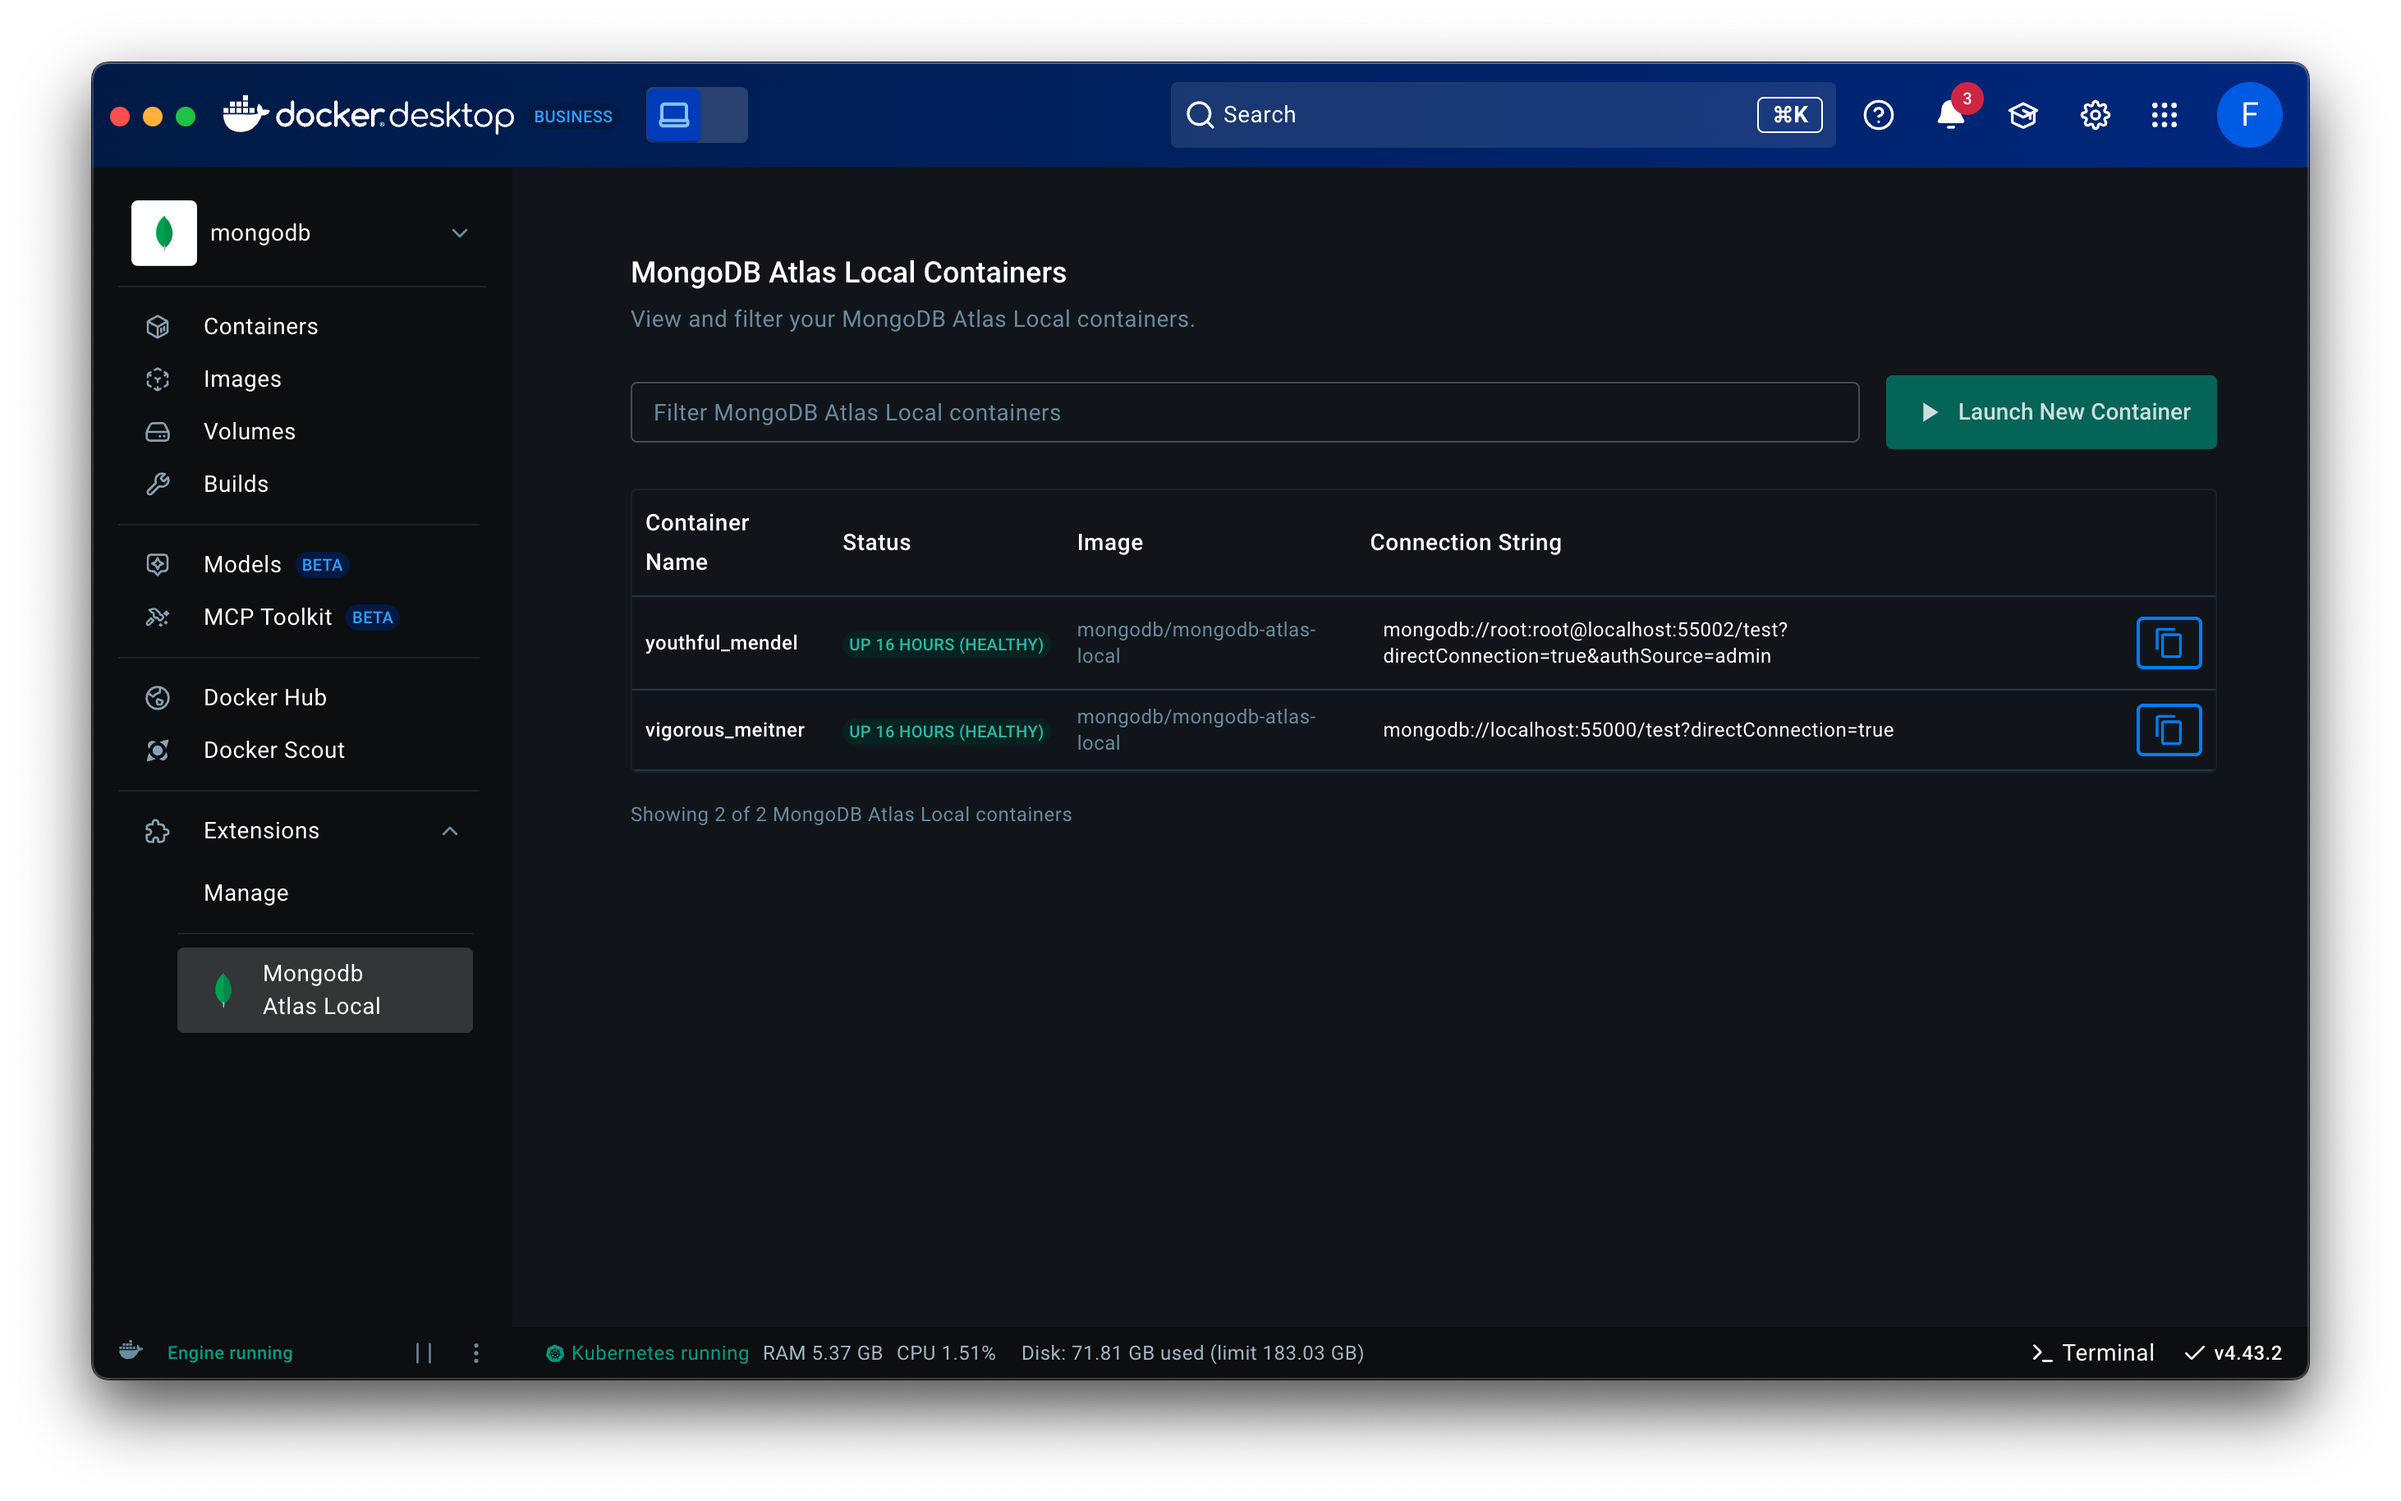
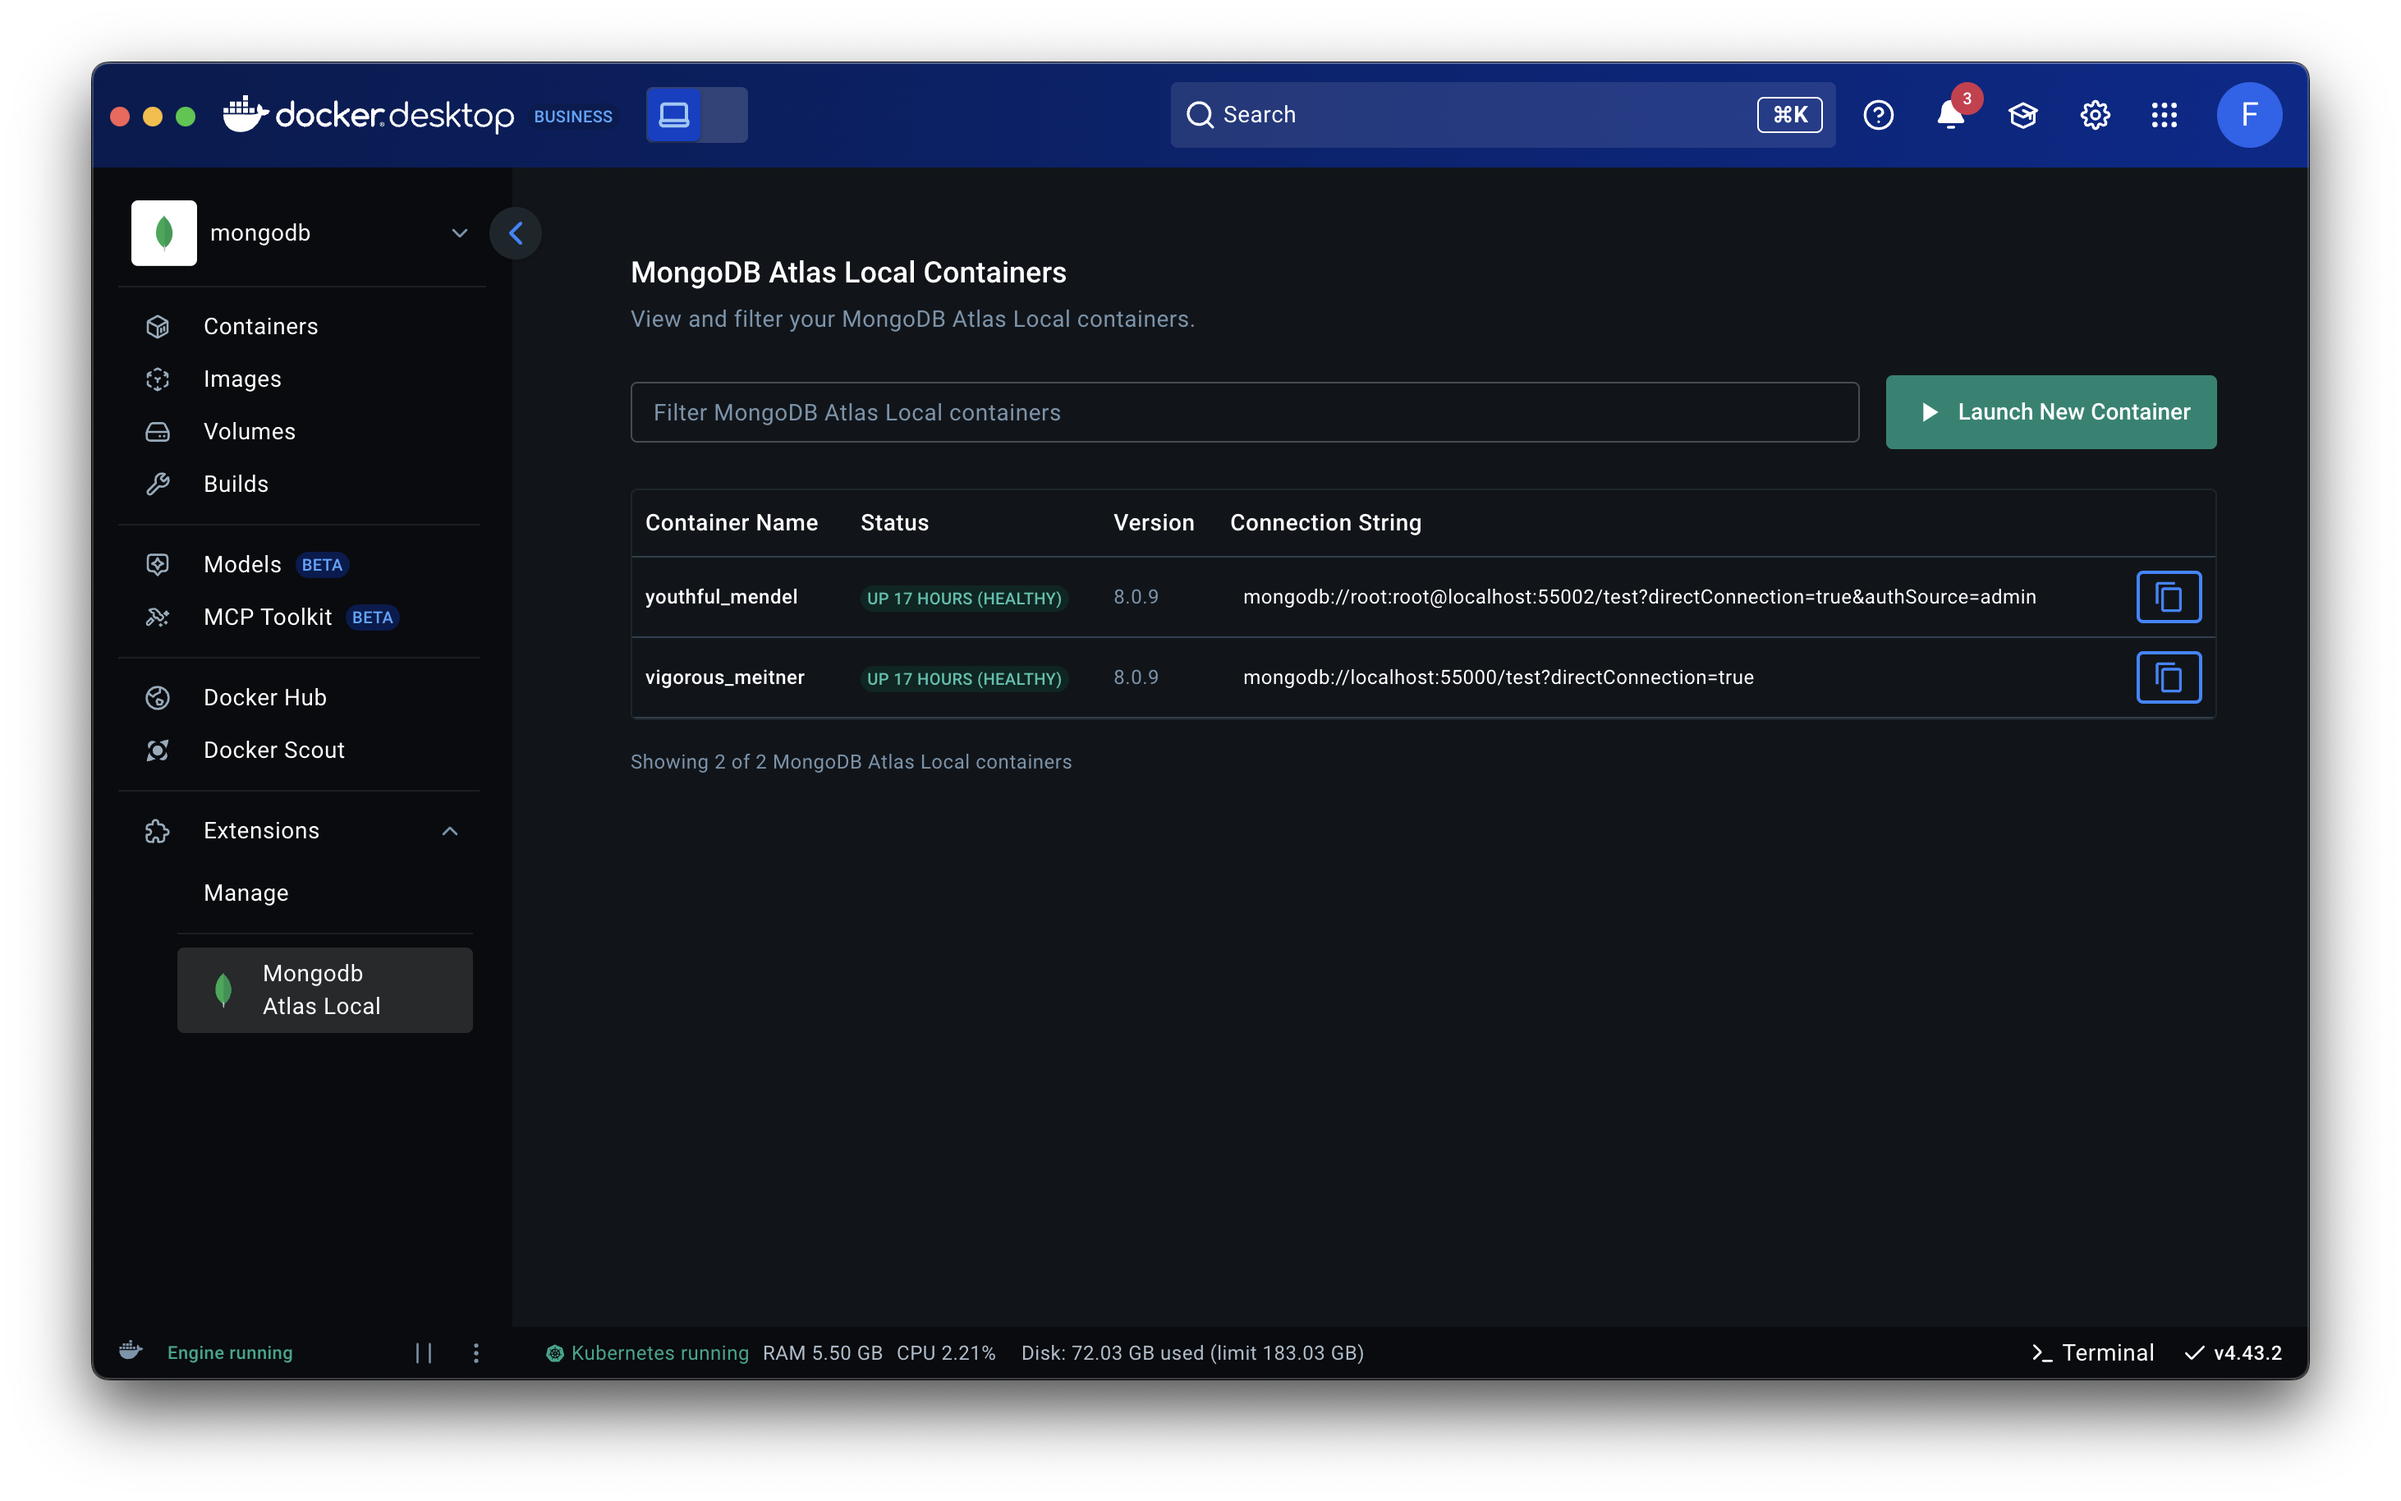
feat: replace image with mongodb version

diff --git a/ui/src/App.tsx b/ui/src/App.tsx
@@ -68,7 +68,7 @@ interface ContainerTableRow {
   id: string;
   name: string;
   status: string;
-  image: string;
+  version: string;
   connectionString?: string;
   isLoadingConnectionString?: boolean;
 }
@@ -93,6 +93,22 @@ export function App() {
     port?: string;
   }>({});
   const ddClient = useDockerDesktopClient();
+
+  const extractVersionFromImage = async (container: Container): Promise<string> => {
+    try {
+      // Inspect the container to get image information
+      const inspectResult = await ddClient.docker.cli.exec('inspect', [container.Id]);
+      const containerData = JSON.parse(inspectResult.stdout);
+      const imageLabels = containerData[0]?.Config?.Labels || {};
+      
+      const version = imageLabels['version'] || 'Unknown';
+      
+      return version;
+    } catch (err) {
+      console.error('Failed to extract version from image:', err);
+      return 'Unknown';
+    }
+  };
 
   const generateMongoDBConnectionString = async (container: Container): Promise<string | undefined> => {
     // Check if container has exposed ports
@@ -149,27 +165,19 @@ export function App() {
         })
       }) as Container[];
       
-      // First, create containers with loading state
-      const initialContainers: ContainerTableRow[] = containersData.map((container: Container) => ({
-        id: container.Id,
-        name: container.Names[0]?.replace('/', '') || container.Id.substring(0, 12),
-        status: container.Status,
-        image: container.Image,
-        isLoadingConnectionString: true
-      }));
-      
-      setContainers(initialContainers);
-      
-      // Then, generate connection strings for each container
+      // Process containers to get version and connection string information
       const processedContainers: ContainerTableRow[] = await Promise.all(
         containersData.map(async (container: Container) => {
-          const connectionString = await generateMongoDBConnectionString(container);
+          const [version, connectionString] = await Promise.all([
+            extractVersionFromImage(container),
+            generateMongoDBConnectionString(container)
+          ]);
           
           return {
             id: container.Id,
             name: container.Names[0]?.replace('/', '') || container.Id.substring(0, 12),
             status: container.Status,
-            image: container.Image,
+            version,
             connectionString,
             isLoadingConnectionString: false
           };
@@ -192,7 +200,7 @@ export function App() {
     const criteria = filterCriteria.toLowerCase();
     return containers.filter(container => 
       container.name.toLowerCase().includes(criteria) ||
-      container.image.toLowerCase().includes(criteria)
+      container.version.toLowerCase().includes(criteria)
     );
   }, [containers, filterCriteria]);
 
@@ -345,7 +353,7 @@ export function App() {
       <Stack direction="row" spacing={2} sx={{ mb: 3 }}>
         <TextField
           label="Filter MongoDB Atlas Local containers"
-          placeholder="Filter by container name or image..."
+          placeholder="Filter by container name or version..."
           value={filterCriteria}
           onChange={(e) => setFilterCriteria(e.target.value)}
           sx={{ flexGrow: 1 }}
@@ -369,7 +377,7 @@ export function App() {
             <TableRow>
               <TableCell sx={{ fontWeight: 'bold' }}>Container Name</TableCell>
               <TableCell sx={{ fontWeight: 'bold' }}>Status</TableCell>
-              <TableCell sx={{ fontWeight: 'bold' }}>Image</TableCell>
+              <TableCell sx={{ fontWeight: 'bold' }}>Version</TableCell>
               <TableCell sx={{ fontWeight: 'bold' }}>Connection String</TableCell>
             </TableRow>
           </TableHead>
@@ -403,7 +411,7 @@ export function App() {
                   </TableCell>
                   <TableCell>
                     <Typography variant="body2" color="text.secondary">
-                      {container.image}
+                      {container.version}
                     </Typography>
                   </TableCell>
                   <TableCell>
